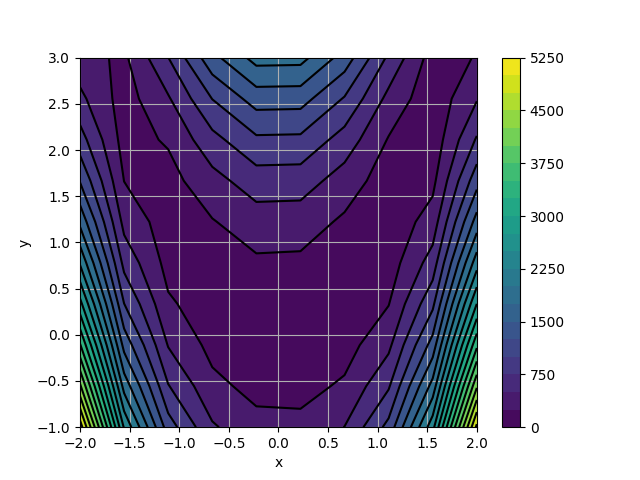
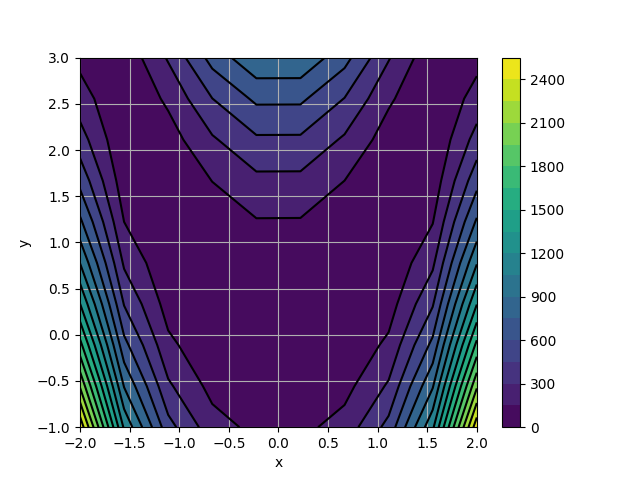
Update Rosenbrock example.

diff --git a/examples/rosenbrock/rosenbrock_estimate_params.py b/examples/rosenbrock/rosenbrock_estimate_params.py
@@ -74,8 +74,8 @@ y_response = data[:, -1:].T
 
 # Change the ranges of a and b if you generate new data if using a different a or b
 # these are the bounds within which # parameters are searched
-parameter_range = [[0.0, 20.0],  # for default a
-                   [100.0, 300.0]]  # for default b
+parameter_range = [[0.0, 5.0],  # for default a
+                   [50.0, 150.0]]  # for default b
 para_names = ['a', 'b']
 
 # start a timer

diff --git a/examples/rosenbrock/rosenbrock_estimate_params_scipy.py b/examples/rosenbrock/rosenbrock_estimate_params_scipy.py
@@ -17,7 +17,7 @@ from rosenbrock_data_generate import generate_data
 # Change x,y,a, b to solve a
 # new generate data for a
 # parameter estimation problem
-generate_new_data = True
+generate_new_data = False
 if (generate_new_data):
     a = 10.0
     b = 200.0
